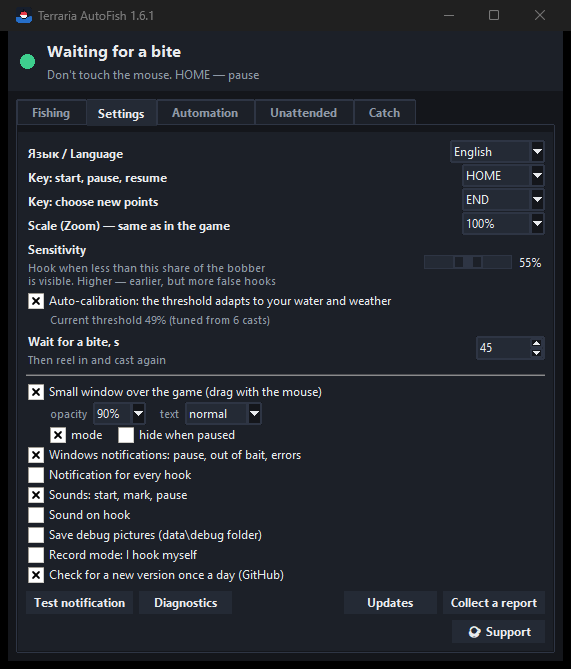
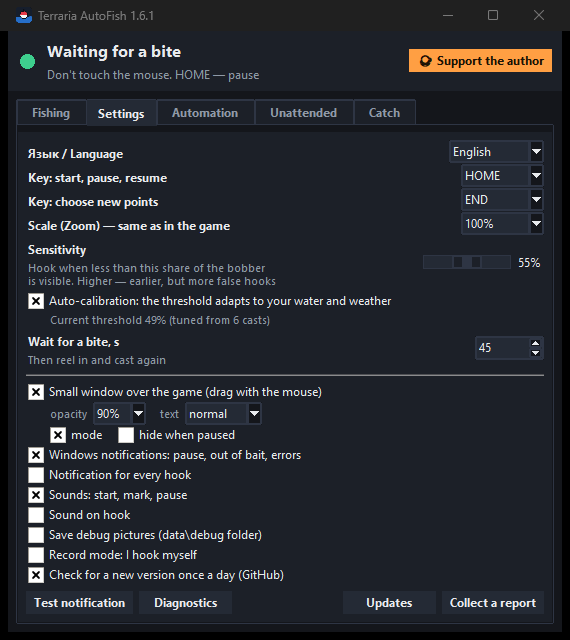
Support button at the top of the window, milestone reminders
- An orange Support the author button in the window header (every tab)
  and in the catch report; the Settings-tab row is gone
- At 100, 500, 1000... caught items (all time) one log line and one
  notification suggest supporting the author, once per milestone
- Release notes no longer mention the button being added

diff --git a/src/app.py b/src/app.py
@@ -47,7 +47,7 @@ DEFAULTS = {
     "sonar_filter": False, "catch_biome": "auto", "catch_want": {}, "quest_fish": None,
     "update_checked": 0, "wizard_done": False, "tray": True, "inv_full_stop": True,
     "potion_remind": True, "events_stop": True, "death_stop": True,
-    "update_check": True,
+    "update_check": True, "donate_nudged": 0,
     "overlay_alpha": 90, "overlay_font": "normal", "overlay_mode": True, "overlay_hide_paused": False,
 }
 LANGS = [("auto", tr("Авто / Auto")), ("ru", tr("Русский")), ("en", "English")]
@@ -64,6 +64,7 @@ C = {
 STATE_COLOR = {"idle": C["muted"], "cast": C["blue"], "search": C["blue"], "mark": C["yellow"],
                "wait": C["green"], "hook": C["orange"], "pause": C["red"]}
 FONT = "Segoe UI"
+DONATE_NUDGES = (100, 500, 1000, 2500, 5000, 10000, 25000, 50000)   # на этих числах улова — напомнить
 
 # Уведомления Windows показываем через встроенный PowerShell (без сторонних библиотек)
 AUMID = r"{1AC14E77-02E7-4E5D-B744-2EB1AE5198B7}\WindowsPowerShell\v1.0\powershell.exe"
@@ -510,6 +511,8 @@ class App:
               foreground=[("disabled", C["muted"])])
         s.configure("Accent.TButton", background=C["green"], foreground="#0d1a13")
         s.map("Accent.TButton", background=[("active", "#35b87d"), ("disabled", C["panel"])])
+        s.configure("Donate.TButton", background=C["orange"], foreground="#1f1305", font=(FONT, 9, "bold"))
+        s.map("Donate.TButton", background=[("active", "#ffb468")])
         s.configure("TCheckbutton", background=C["panel"], foreground=C["text"], padding=1)
         s.map("TCheckbutton", background=[("active", C["panel"])],
               indicatorcolor=[("selected", C["green"]), ("!selected", C["panel2"])])
@@ -535,6 +538,10 @@ class App:
         inner.pack(fill="x", padx=10, pady=6)
         self.dot = tk.Canvas(inner, width=18, height=18, bg=C["panel"], highlightthickness=0)
         self.dot.pack(side="left", padx=(0, 8))
+        import donate
+        if donate.LINKS:                          # поддержать автора — на виду, на любой вкладке
+            ttk.Button(inner, text=tr("☕ Поддержать автора"), style="Donate.TButton",
+                       command=self.show_donate).pack(side="right", padx=(8, 0))
         col = tk.Frame(inner, bg=C["panel"])
         col.pack(side="left", fill="x", expand=True)
         self.state_lbl = tk.Label(col, text=tr("Готов"), bg=C["panel"], fg=C["text"], font=(FONT, 12, "bold"),
@@ -730,12 +737,6 @@ class App:
         self.update_btn = ttk.Button(bf, text=tr("Обновления"), command=self.on_update_btn)
         self.update_btn.pack(side="right", padx=(0, 6))
         self.show_update_btn()
-        import donate
-        if donate.LINKS:                          # ссылки на пожертвования есть — есть и кнопка
-            row += 1
-            bf2 = ttk.Frame(box, style="Card.TFrame")
-            bf2.grid(row=row, column=0, columnspan=2, sticky="we", pady=(6, 0))
-            ttk.Button(bf2, text=tr("☕ Поддержать"), command=self.show_donate).pack(side="right")
         row += 1
         box.columnconfigure(0, weight=1)
 
@@ -952,6 +953,10 @@ class App:
         bar.pack(fill="x", padx=8, pady=(0, 8))
         ttk.Button(bar, text=tr("Закрыть"), command=win.destroy).pack(side="right")
         ttk.Button(bar, text=tr("Сохранить CSV"), command=self.save_catch_csv).pack(side="right", padx=(0, 6))
+        import donate
+        if donate.LINKS:
+            ttk.Button(bar, text=tr("☕ Поддержать автора"), style="Donate.TButton",
+                       command=self.show_donate).pack(side="left")
 
         def refresh():
             if not win.winfo_exists():
@@ -1086,6 +1091,26 @@ class App:
             ttk.Label(frame, text=tr("Сохранено: %s") % d["path"], style="Muted.TLabel", wraplength=440,
                       justify="left").pack(anchor="w", pady=(8, 0))
         ttk.Button(win, text=tr("Закрыть"), command=win.destroy).pack(anchor="e", padx=8, pady=(0, 8))
+
+    def donate_nudge(self):
+        """Круглое число пойманного за всё время (100, 500, 1000…) — одна строка в журнале и одно
+        уведомление: можно поддержать автора. На каждое число — один раз."""
+        import donate
+        if not donate.LINKS or self.selftest:
+            return
+        t = self.history.totals("all")
+        total = sum(t["items"].values()) + t["unknown"]
+        done = int(self.cfg.get("donate_nudged") or 0)
+        reached = [m for m in DONATE_NUDGES if done < m <= total]
+        if not reached:
+            return
+        self.cfg["donate_nudged"] = reached[-1]
+        save_cfg(self.cfg)
+        text = tr("Программа поймала для вас уже %d рыб и предметов! Если она помогает — поддержите автора: "
+                  "кнопка «☕ Поддержать автора» вверху.") % reached[-1]
+        self.add_log(text, "good")
+        if self.cfg["toasts"]:
+            toast(APP, text)
 
     def show_donate(self):
         """Поддержать автора: короткое спасибо и кнопки страниц пожертвований (открываются в браузере)."""
@@ -1610,6 +1635,7 @@ class App:
             self.catch_info = d
             if d.get("caught"):
                 self.history.add_catch(d.get("id"))
+                self.donate_nudge()
             elif not d.get("wanted", True):
                 self.history.add_skip()           # отпустили по сонару
             if d.get("caught") and d.get("name"):

diff --git a/tests/test_extras.py b/tests/test_extras.py
@@ -127,6 +127,26 @@ class TestDownload(unittest.TestCase):
 
 
 class TestDonate(unittest.TestCase):
+    def test_nudge_once_per_milestone(self):
+        import app
+        import history
+
+        class Fake:
+            selftest = None
+        f = Fake()
+        f.history, f.cfg, f.logs = history.History(None), dict(app.DEFAULTS, toasts=False), []
+        f.add_log = lambda text, kind="info": f.logs.append(text)
+        for _ in range(99):
+            f.history.add_catch(2315)
+        app.App.donate_nudge(f)
+        self.assertEqual(f.logs, [])                              # 99 — ещё рано
+        f.history.add_catch(2315)
+        app.App.donate_nudge(f)
+        app.App.donate_nudge(f)
+        self.assertEqual(len(f.logs), 1)                          # на 100 — одна строка
+        self.assertIn("100", f.logs[0])
+        self.assertEqual(f.cfg["donate_nudged"], 100)
+
     def test_links(self):
         import donate
         for name, url, note, lang in donate.LINKS:

diff --git a/src/i18n.py b/src/i18n.py
@@ -591,6 +591,7 @@ EN = {
     "Boosty — страница автора": "Boosty — author page",
     "российские карты, без регистрации": "Russian bank cards only, no sign-up",
     "в том числе из-за рубежа; нужно войти в Boosty": "works from abroad too; you need to sign in to Boosty",
+    'Программа поймала для вас уже %d рыб и предметов! Если она помогает — поддержите автора: кнопка «☕ Поддержать автора» вверху.': 'The program has already caught %d fish and items for you! If it helps, support the author: the ☕ Support the author button at the top.',
     # --- подписи на двух языках сразу (выбор языка) — одинаковы в обоих
     "Авто / Auto": "Авто / Auto",
     "Русский": "Русский",

diff --git a/docs/releases/v1.6.1.md b/docs/releases/v1.6.1.md
@@ -9,7 +9,6 @@ Automatic fishing for **Terraria** (1.4.4, 1.4.5 and newer, tModLoader). The pro
 - **TerrariaAutoFish-1.6.1-portable.zip** — portable version: unpack the `TerrariaAutoFish` folder anywhere (even a USB stick) and run `TerrariaAutoFish.exe`; settings are kept next to the program.
 
 ### New in 1.6.1
-- **Support the author.** The ☕ **Support** button (Settings tab and the tray menu) opens a small window with two pages: **Boosty** (works from abroad too; you need to sign in to Boosty) and **CloudTips** (by card, no sign-up, Russian bank cards only). It's voluntary and changes nothing in the program. The same links are in the README and behind the **Sponsor** button on GitHub.
 - **The daily update check can be turned off** (Settings tab).
 
 If Terraria AutoFish helped you: [Boosty](https://boosty.to/lepyoha/donate) · [CloudTips](https://pay.cloudtips.ru/p/b2e68ed6). Thank you!
@@ -23,8 +22,7 @@ If Terraria AutoFish helped you: [Boosty](https://boosty.to/lepyoha/donate) · [
 - **Less CPU:** while waiting for a bite the program takes an even 60 pictures a second (as many as the game draws) instead of up to ~150–200, and doesn't ask Windows for the game's process name on every picture — on the test game 23% → 9% of one core. The stats show the program's CPU load.
 - **One-click update for the portable version too:** it downloads the new zip, closes, replaces its files (settings and data are kept) and starts again.
 - **Second monitor:** the program window and the small window open where they were left, also on a monitor with negative coordinates; fishing on such a monitor is covered by a test.
-- **"Support the author"** window (appears once donation links are added).
-- **114 tests.**
+- **115 tests.**
 
 ### Fixed in 1.5.1
 - **The program lost the bobber and followed an empty place.** In a dark cave the wide search took an empty spot on the water edge right next to the real bobber: the check "is it our bobber" looked for the Wiki image with too low a threshold (0.65, the empty edge gave 0.69). The remembered bobber image then "learned" the water edge, which looks the same along the whole surface, and the program watched an empty place — no bites for 45 s again and again, and its clicks got out of step with the real casts (a "hook" only cast the bobber). Now:
@@ -99,7 +97,6 @@ Requirements: Windows 10/11; in Terraria use **Windowed** or **Borderless** mode
 - **TerrariaAutoFish-1.6.1-portable.zip** — портативная версия: распакуйте папку `TerrariaAutoFish` куда угодно (хоть на флешку) и запустите `TerrariaAutoFish.exe`; настройки хранятся рядом с программой.
 
 ### Новое в 1.6.1
-- **Поддержать автора.** Кнопка **«☕ Поддержать»** (вкладка «Настройки» и меню значка в трее) открывает окошко с двумя страницами: **CloudTips** (картой, без регистрации, российские карты) и **Boosty** (в том числе из-за рубежа; нужно войти в Boosty). Это добровольно и ни на что в программе не влияет. Те же ссылки — в README и за кнопкой **Sponsor** на GitHub.
 - **Ежедневную проверку обновлений можно выключить** (вкладка «Настройки»).
 
 Если Terraria AutoFish вам помогла: [CloudTips](https://pay.cloudtips.ru/p/b2e68ed6) · [Boosty](https://boosty.to/lepyoha/donate). Спасибо!
@@ -113,8 +110,7 @@ Requirements: Windows 10/11; in Terraria use **Windowed** or **Borderless** mode
 - **Меньше нагрузка на процессор:** пока ждёт поклёвку, программа делает ровно 60 снимков в секунду (столько, сколько рисует игра) вместо примерно 150–200 и не спрашивает у Windows имя процесса игры на каждом снимке — на тестовой игре 23 % → 9 % одного ядра. В статистике видна нагрузка программы.
 - **Обновление в один клик и для портативной версии:** скачивает новый архив, закрывается, заменяет свои файлы (настройки и данные сохраняются) и запускается снова.
 - **Второй монитор:** окно программы и окошко открываются там, где их оставили, и на мониторе с отрицательными координатами; рыбалка на таком мониторе проверена тестом.
-- **Окно «Поддержать автора»** (появится, когда будут добавлены ссылки для пожертвований).
-- **114 тестов.**
+- **115 тестов.**
 
 ### Исправлено в 1.5.1
 - **Программа теряла поплавок и следила за пустым местом.** В тёмной пещере широкий поиск взял пустое место на кромке воды рядом с настоящим поплавком: проверка «наш ли это поплавок» искала картинку с Вики со слишком низким порогом (0.65, а пустая кромка давала 0.69). Запомненный образец поплавка «переучивался» на кромку воды, одинаковую по всей поверхности, и программа следила за пустым местом — «нет поклёвки 45 с» раз за разом, а её клики сбивались с настоящими забросами («подсечка» только забрасывала поплавок). Теперь:

diff --git a/docs/releases/v1.6.0.md b/docs/releases/v1.6.0.md
@@ -17,7 +17,6 @@ Automatic fishing for **Terraria** (1.4.4, 1.4.5 and newer, tModLoader). The pro
 - **Less CPU:** while waiting for a bite the program takes an even 60 pictures a second (as many as the game draws) instead of up to ~150–200, and doesn't ask Windows for the game's process name on every picture — on the test game 23% → 9% of one core. The stats show the program's CPU load.
 - **One-click update for the portable version too:** it downloads the new zip, closes, replaces its files (settings and data are kept) and starts again.
 - **Second monitor:** the program window and the small window open where they were left, also on a monitor with negative coordinates; fishing on such a monitor is covered by a test.
-- **"Support the author"** window (appears once donation links are added).
 - **114 tests.**
 
 ### Fixed in 1.5.1
@@ -101,7 +100,6 @@ Requirements: Windows 10/11; in Terraria use **Windowed** or **Borderless** mode
 - **Меньше нагрузка на процессор:** пока ждёт поклёвку, программа делает ровно 60 снимков в секунду (столько, сколько рисует игра) вместо примерно 150–200 и не спрашивает у Windows имя процесса игры на каждом снимке — на тестовой игре 23 % → 9 % одного ядра. В статистике видна нагрузка программы.
 - **Обновление в один клик и для портативной версии:** скачивает новый архив, закрывается, заменяет свои файлы (настройки и данные сохраняются) и запускается снова.
 - **Второй монитор:** окно программы и окошко открываются там, где их оставили, и на мониторе с отрицательными координатами; рыбалка на таком мониторе проверена тестом.
-- **Окно «Поддержать автора»** (появится, когда будут добавлены ссылки для пожертвований).
 - **114 тестов.**
 
 ### Исправлено в 1.5.1

diff --git a/README.md b/README.md
@@ -310,7 +310,7 @@ taken from `docs/releases/<tag>.md`).
 
 ### Tests
 
-`scripts\run_tests.bat` (or `python -m unittest discover -s tests`) runs 114 tests in about four and a half minutes, most of them on
+`scripts\run_tests.bat` (or `python -m unittest discover -s tests`) runs 115 tests in about four and a half minutes, most of them on
 real data from the game in `tests/data`: hotbar snapshots with different selected slots, recorded
 bites, bobber search zones and a wide scene with a pier. Full scenarios (start, pause and resume,
 taking the rod back, a bite, running out of bait, night, potions, the Sonar Potion, the Angler quest,
@@ -348,7 +348,7 @@ changes nothing in the program:
 - **[Boosty](https://boosty.to/lepyoha/donate)** — the author's page, works from abroad too (you need to sign in to Boosty);
 - **[CloudTips](https://pay.cloudtips.ru/p/b2e68ed6)** — by card, no sign-up, Russian bank cards only.
 
-The same links are behind the **☕ Support** button on the Settings tab and in the tray menu.
+The same links are behind the orange **☕ Support the author** button at the top of the window, in the catch report and in the tray menu.
 
 ## Important
 
